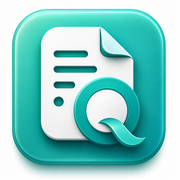
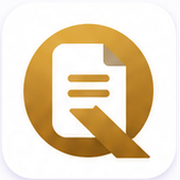
Connect BillQyro Firebase and update app

diff --git a/index.html b/index.html
@@ -2,7 +2,10 @@
 <html lang="en">
   <head>
     <meta charset="UTF-8" />
-    <link rel="icon" type="image/png" href="/favicon.png" />
+    <link id="favicon-32" rel="icon" type="image/png" href="/favicon-32x32.png" sizes="32x32">
+    <link id="favicon-16" rel="icon" type="image/png" href="/favicon-16x16.png" sizes="16x16">
+    <link id="apple-touch-icon" rel="apple-touch-icon" href="/apple-touch-icon.png">
+    <link id="favicon-ico" rel="shortcut icon" href="/favicon.ico">
     <meta name="viewport" content="width=device-width, initial-scale=1.0, maximum-scale=1.0, user-scalable=no" />
     
     <!-- SEO Optimization Meta Tags -->
@@ -33,6 +36,32 @@
             document.documentElement.classList.add('dark');
           } else {
             document.documentElement.classList.remove('dark');
+          }
+
+          var themeFolderMap = {
+            classic: 'billqyro-classic',
+            pink: 'pink-premium',
+            emerald: 'emerald-business',
+            indigo: 'royal-indigo',
+            rose: 'rose-gold-luxe',
+            midnight: 'midnight-blue',
+            ruby: 'ruby-burgundy',
+            champagne: 'champagne-black'
+          };
+          
+          var folder = themeFolderMap[activeTheme];
+          if (folder) {
+            var f32 = document.getElementById('favicon-32');
+            if (f32) f32.href = '/icons/themes/' + folder + '/favicon-32x32.png';
+            
+            var f16 = document.getElementById('favicon-16');
+            if (f16) f16.href = '/icons/themes/' + folder + '/favicon-16x16.png';
+            
+            var aIcon = document.getElementById('apple-touch-icon');
+            if (aIcon) aIcon.href = '/icons/themes/' + folder + '/apple-touch-icon.png';
+            
+            var fIco = document.getElementById('favicon-ico');
+            if (fIco) fIco.href = '/icons/themes/' + folder + '/favicon.ico';
           }
         } catch (e) {}
       })();

diff --git a/src/pages/Settings.jsx b/src/pages/Settings.jsx
@@ -1026,6 +1026,7 @@ const Settings = ({
                           onClick={() => {
                             setThemeColor(preset.id);
                             document.documentElement.setAttribute('data-theme', preset.id);
+                            import('../utils/themeIcon').then(m => m.updateFaviconForTheme(preset.id));
                           }}
                           className={`w-full text-left p-4 rounded-2xl border transition-all duration-300 relative overflow-hidden cursor-pointer flex flex-col gap-2 ${
                             isSelected 
@@ -1056,6 +1057,7 @@ const Settings = ({
                       type="button"
                       onClick={() => {
                         document.documentElement.setAttribute('data-theme', themeColor);
+                        import('../utils/themeIcon').then(m => m.updateFaviconForTheme(themeColor));
                         toast.success(`Previewing ${themeColor} theme!`);
                       }}
                       className="w-full py-3 bg-theme-surface hover:bg-theme-border-soft/75 dark:bg-theme-card dark:hover:bg-slate-750 text-theme-primary dark:text-theme-secondary font-black text-xs rounded-xl shadow-sm transition-all active:scale-[0.98] cursor-pointer uppercase tracking-wider"
@@ -1083,6 +1085,7 @@ const Settings = ({
                         };
                         onSaveSettings(payload);
                         document.documentElement.setAttribute('data-theme', 'light');
+                        import('../utils/themeIcon').then(m => m.updateFaviconForTheme('light'));
                         document.documentElement.classList.remove('dark');
                         toast.success('Reset to BillQyro Classic default theme!');
                       }}

diff --git a/vite.config.js b/vite.config.js
@@ -8,7 +8,7 @@ export default defineConfig(({ mode }) => ({
     VitePWA({
       registerType: 'autoUpdate',
       injectRegister: 'auto',
-      includeAssets: ['favicon.png', 'apple-touch-icon.png', 'logo.svg', 'app-icon.svg', 'offline.html'],
+      includeAssets: ['favicon.ico', 'favicon-16x16.png', 'favicon-32x32.png', 'apple-touch-icon.png', 'offline.html'],
       workbox: {
         globPatterns: ['**/*.{js,css,html,ico,png,svg}'],
         maximumFileSizeToCacheInBytes: 5000000 // 5MB limit
@@ -24,19 +24,19 @@ export default defineConfig(({ mode }) => ({
         scope: '/',
         icons: [
           {
-            src: 'pwa-192x192.png',
+            src: 'icon-192x192.png',
             sizes: '192x192',
             type: 'image/png',
             purpose: 'any'
           },
           {
-            src: 'pwa-512x512.png',
+            src: 'icon-512x512.png',
             sizes: '512x512',
             type: 'image/png',
             purpose: 'any'
           },
           {
-            src: 'pwa-512x512.png',
+            src: 'icon-512x512.png',
             sizes: '512x512',
             type: 'image/png',
             purpose: 'maskable'

diff --git a/src/App.jsx b/src/App.jsx
@@ -296,11 +296,12 @@ function App() {
           // Fetch global admin settings for defaults
           try {
             const adminGlobal = await getGlobalAdminSettings();
-            if (adminGlobal) {
-              if (adminGlobal.defaultTheme) {
-                localStorage.setItem('billqyro_admin_default_theme', adminGlobal.defaultTheme);
-                document.documentElement.setAttribute('data-theme', adminGlobal.defaultTheme);
-              }
+              if (adminGlobal) {
+                if (adminGlobal.defaultTheme) {
+                  localStorage.setItem('billqyro_admin_default_theme', adminGlobal.defaultTheme);
+                  document.documentElement.setAttribute('data-theme', adminGlobal.defaultTheme);
+                  import('./utils/themeIcon').then(m => m.updateFaviconForTheme(adminGlobal.defaultTheme));
+                }
               if (adminGlobal.defaultMode) {
                 localStorage.setItem('billqyro_admin_default_mode', adminGlobal.defaultMode);
                 if (adminGlobal.defaultMode === 'dark') document.documentElement.classList.add('dark');

diff --git a/src/utils/themeIcon.js b/src/utils/themeIcon.js
@@ -1,0 +1,32 @@
+const themeFolderMap = {
+  classic: 'billqyro-classic',
+  pink: 'pink-premium',
+  emerald: 'emerald-business',
+  indigo: 'royal-indigo',
+  rose: 'rose-gold-luxe',
+  midnight: 'midnight-blue',
+  ruby: 'ruby-burgundy',
+  champagne: 'champagne-black'
+};
+
+export const updateFaviconForTheme = (themeId) => {
+  try {
+    const folder = themeFolderMap[themeId];
+    if (!folder) return;
+    
+    const f32 = document.getElementById('favicon-32');
+    if (f32) f32.href = `/icons/themes/${folder}/favicon-32x32.png`;
+    
+    const f16 = document.getElementById('favicon-16');
+    if (f16) f16.href = `/icons/themes/${folder}/favicon-16x16.png`;
+    
+    const aIcon = document.getElementById('apple-touch-icon');
+    if (aIcon) aIcon.href = `/icons/themes/${folder}/apple-touch-icon.png`;
+    
+    const fIco = document.getElementById('favicon-ico');
+    if (fIco) fIco.href = `/icons/themes/${folder}/favicon.ico`;
+    
+  } catch (error) {
+    console.error("Failed to update dynamic favicon:", error);
+  }
+};

diff --git a/src/pages/Landing.jsx b/src/pages/Landing.jsx
@@ -12,8 +12,10 @@ const Landing = ({ onLoginClick }) => {
         const adminGlobal = await getGlobalAdminSettings();
         if (adminGlobal && adminGlobal.defaultTheme) {
           document.documentElement.setAttribute('data-theme', adminGlobal.defaultTheme);
+          import('../utils/themeIcon').then(m => m.updateFaviconForTheme(adminGlobal.defaultTheme));
         } else if (!document.documentElement.hasAttribute('data-theme')) {
           document.documentElement.setAttribute('data-theme', 'pink');
+          import('../utils/themeIcon').then(m => m.updateFaviconForTheme('pink'));
         }
       } catch (e) {
         // Silent fallback

diff --git a/src/components/Layout.jsx b/src/components/Layout.jsx
@@ -4,6 +4,7 @@ import BottomNav from './BottomNav';
 import { ReceiptText, LogOut, ShieldCheck, Sun, Moon, User } from 'lucide-react';
 import Logo from './Logo';
 import { getSettings, saveSettings } from '../utils/storage';
+import { updateFaviconForTheme } from '../utils/themeIcon';
 
 /**
  * Global App Layout Shell
@@ -46,6 +47,7 @@ const Layout = ({ children, currentTab, setCurrentTab, onLogout, businessSetting
 
   useEffect(() => {
     document.documentElement.setAttribute('data-theme', themeColor);
+    updateFaviconForTheme(themeColor);
     localStorage.setItem('billqyro_theme_color', themeColor);
   }, [themeColor]);
 

diff --git a/dev-dist/sw.js b/dev-dist/sw.js
@@ -81,7 +81,7 @@ define(['./workbox-7e5eb42b'], (function (workbox) { 'use strict';
     "revision": "3ca0b8505b4bec776b69afdba2768812"
   }, {
     "url": "index.html",
-    "revision": "0.g8rhv55pf8g"
+    "revision": "0.91flk2279"
   }], {});
   workbox.cleanupOutdatedCaches();
   workbox.registerRoute(new workbox.NavigationRoute(workbox.createHandlerBoundToURL("index.html"), {
